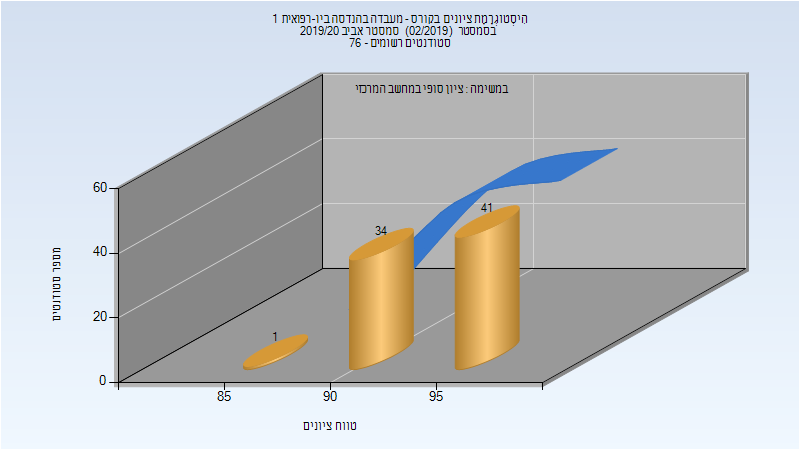
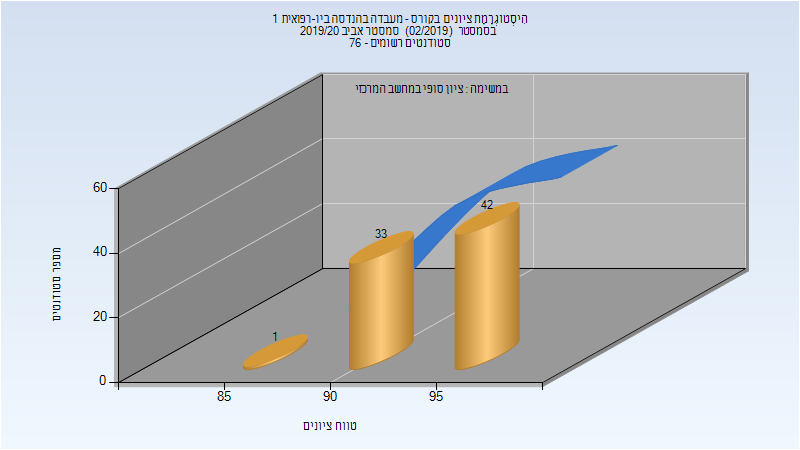
Deploy michael-maltsev/technion-histograms to github.com/michael-maltsev/technion-histograms.git:gh-pages

diff --git a/335001/index.html b/335001/index.html
@@ -366,7 +366,7 @@
 <td>100</td>
 <td>89</td>
 <td>99</td>
-<td>94.539</td>
+<td>94.592</td>
 <td>95</td>
 </tr>
 </tbody>

diff --git a/335001/README.md b/335001/README.md
@@ -114,5 +114,5 @@
 
 | סטודנטים | עברו/נכשלו | אחוז עוברים | ציון מינימלי | ציון מקסימלי | ממוצע | חציון |
 | ---- | ---- | ---- | ---- | ---- | ---- | ---- |
-| 76 | 76/0 | 100 | 89 | 99 | 94.539 | 95 |
+| 76 | 76/0 | 100 | 89 | 99 | 94.592 | 95 |
 
